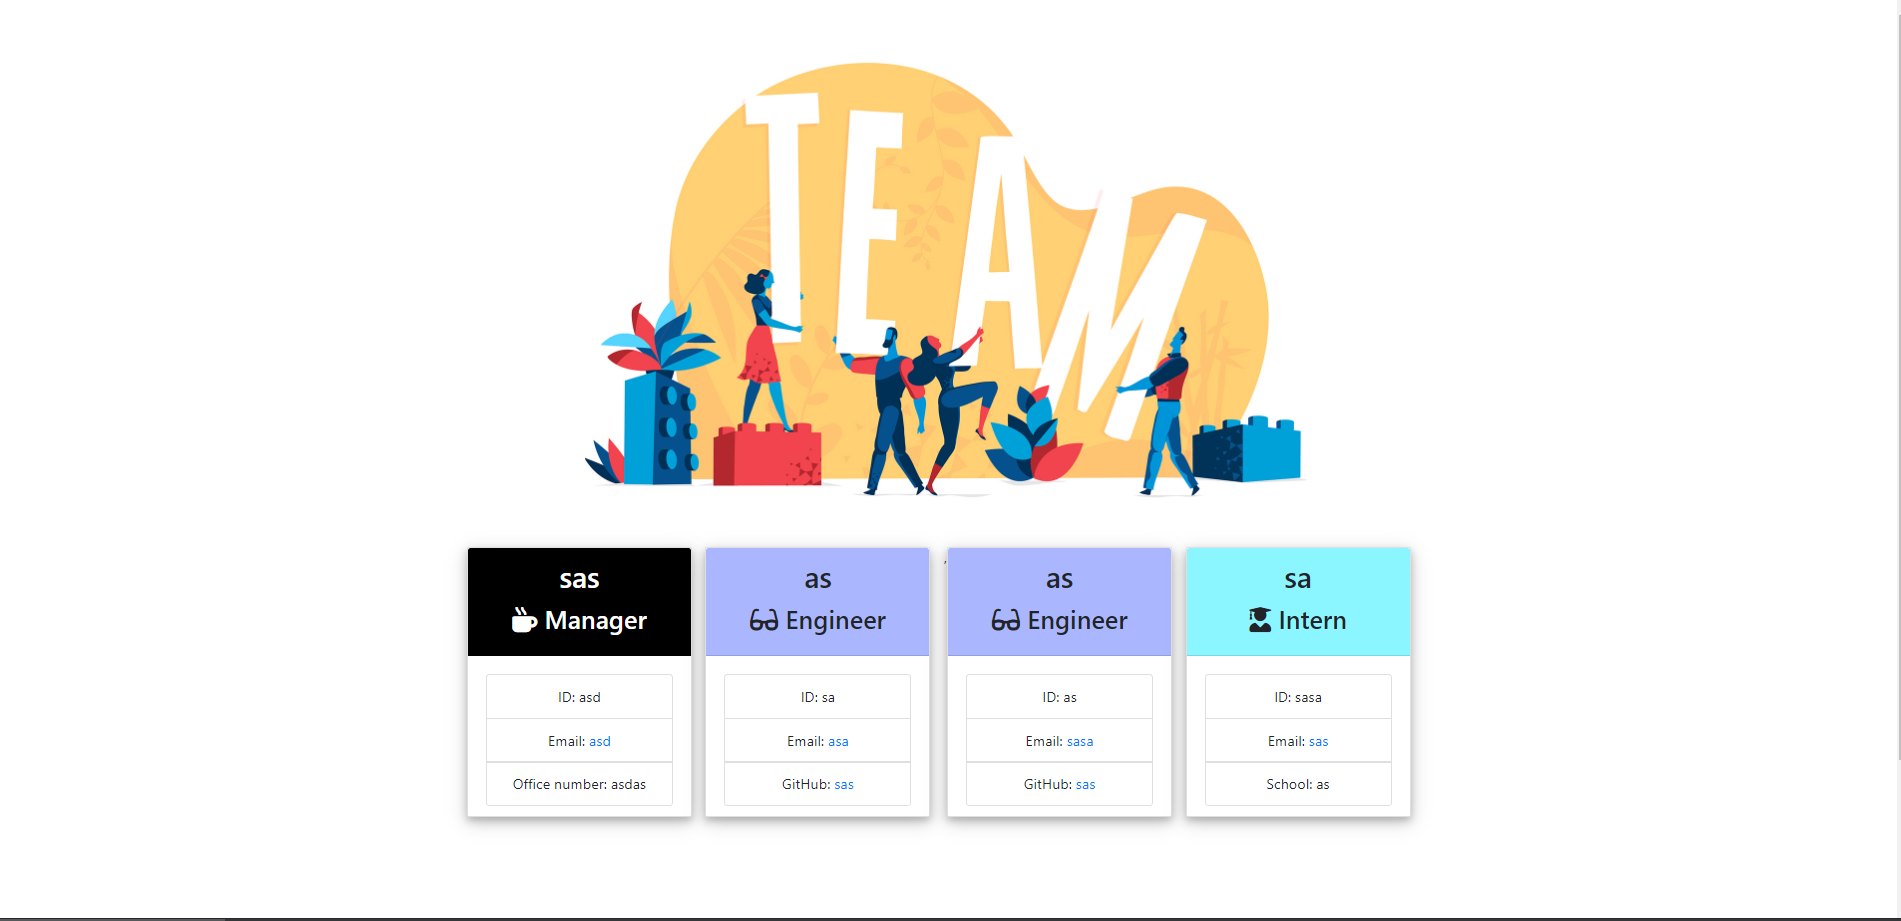
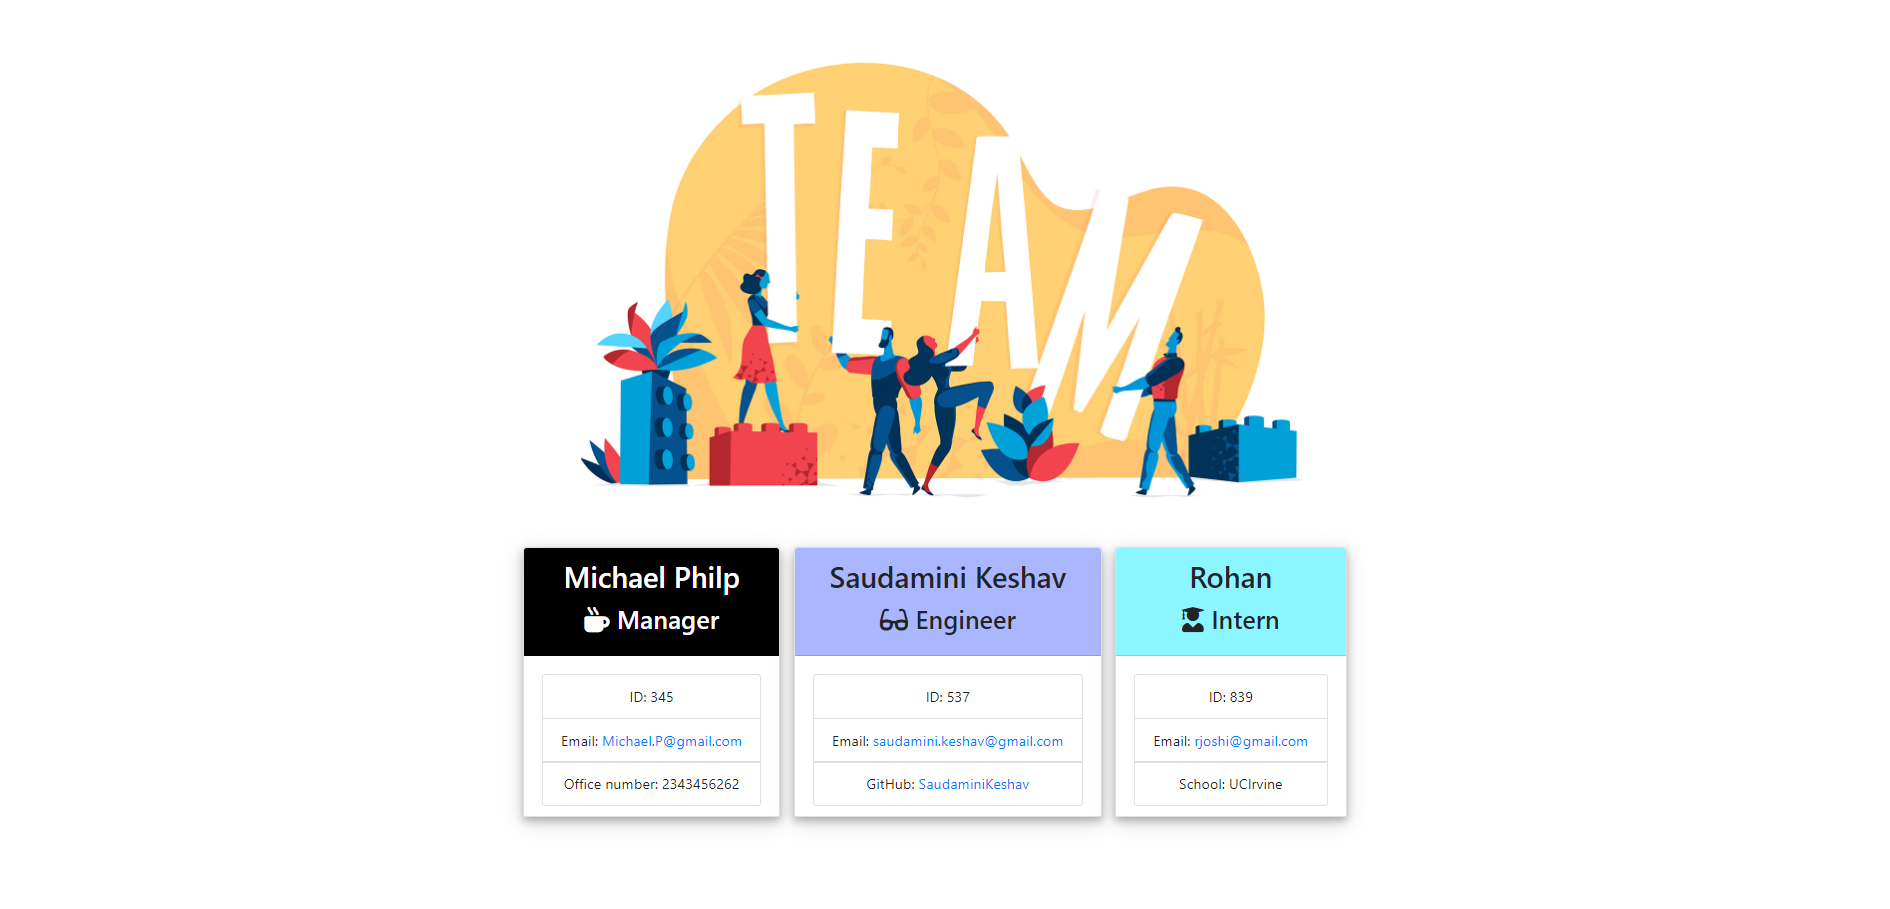
Added page image

diff --git a/output/main.html b/output/main.html
@@ -25,14 +25,14 @@ text-align: center; background: #fff;
   min-width: 250px;
   margin-bottom: 5px; margin-right: 15px;">
     <div class="card-header" style="background: black; color: white;">
-        <h2 class="card-title">sas</h2>
+        <h2 class="card-title">Michael Philp</h2>
         <h3 class="card-title"><i class="fas fa-mug-hot mr-2"></i>Manager</h3>
     </div>
     <div class="card-body">
         <ul class="list-group">
-            <li class="list-group-item">ID: asd</li>
-            <li class="list-group-item">Email: <a href="mailto:asd">asd</a></li>
-            <li class="list-group-item">Office number: asdas</li>
+            <li class="list-group-item">ID: 345</li>
+            <li class="list-group-item">Email: <a href="mailto:Michael.P@gmail.com">Michael.P@gmail.com</a></li>
+            <li class="list-group-item">Office number: 2343456262</li>
         </ul>
     </div>
 </div>
@@ -43,32 +43,14 @@ text-align: center; background: #fff;
   min-width: 250px; margin-right: 15px;
   margin-bottom: 5px;">
     <div class="card-header" style="background: #aab6fe;">
-        <h2 class="card-title">as</h2>
+        <h2 class="card-title">Saudamini Keshav</h2>
         <h3 class="card-title"><i class="fas fa-glasses mr-2"></i>Engineer</h3>
     </div>
     <div class="card-body">
         <ul class="list-group">
-            <li class="list-group-item">ID: sa</li>
-            <li class="list-group-item">Email: <a href="mailto:asa">asa</a></li>
-            <li class="list-group-item">GitHub: <a href="https://github.com/sas" target="_blank" rel="noopener noreferrer">sas</a></li>
-        </ul>
-    </div>
-</div>
-,<div class="card employee-card" style=" box-shadow: 0 4px 8px 0 rgba(0, 0, 0, 0.2), 0 6px 20px 0 rgba(0, 0, 0, 0.19);
-text-align: center; background: #fff;
-  border-radius: 2px;
-  height: 300px;
-  min-width: 250px; margin-right: 15px;
-  margin-bottom: 5px;">
-    <div class="card-header" style="background: #aab6fe;">
-        <h2 class="card-title">as</h2>
-        <h3 class="card-title"><i class="fas fa-glasses mr-2"></i>Engineer</h3>
-    </div>
-    <div class="card-body">
-        <ul class="list-group">
-            <li class="list-group-item">ID: as</li>
-            <li class="list-group-item">Email: <a href="mailto:sasa">sasa</a></li>
-            <li class="list-group-item">GitHub: <a href="https://github.com/sas" target="_blank" rel="noopener noreferrer">sas</a></li>
+            <li class="list-group-item">ID: 537</li>
+            <li class="list-group-item">Email: <a href="mailto:saudamini.keshav@gmail.com">saudamini.keshav@gmail.com</a></li>
+            <li class="list-group-item">GitHub: <a href="https://github.com/SaudaminiKeshav" target="_blank" rel="noopener noreferrer">SaudaminiKeshav</a></li>
         </ul>
     </div>
 </div>
@@ -79,14 +61,14 @@ text-align: center; background: #fff;
   min-width: 250px;
   margin-bottom: 5px; margin-right: 15px;">
     <div class="card-header" style="background: #8bf6ff;">
-        <h2 class="card-title">sa</h2>
+        <h2 class="card-title">Rohan</h2>
         <h3 class="card-title"><i class="fas fa-user-graduate mr-2"></i>Intern</h3>
     </div>
     <div class="card-body">
         <ul class="list-group">
-            <li class="list-group-item">ID: sasa</li>
-            <li class="list-group-item">Email: <a href="mailto:sas">sas</a></li>
-            <li class="list-group-item">School: as</li>
+            <li class="list-group-item">ID: 839</li>
+            <li class="list-group-item">Email: <a href="mailto:rjoshi@gmail.com">rjoshi@gmail.com</a></li>
+            <li class="list-group-item">School: UCIrvine</li>
         </ul>
     </div>
 </div>
